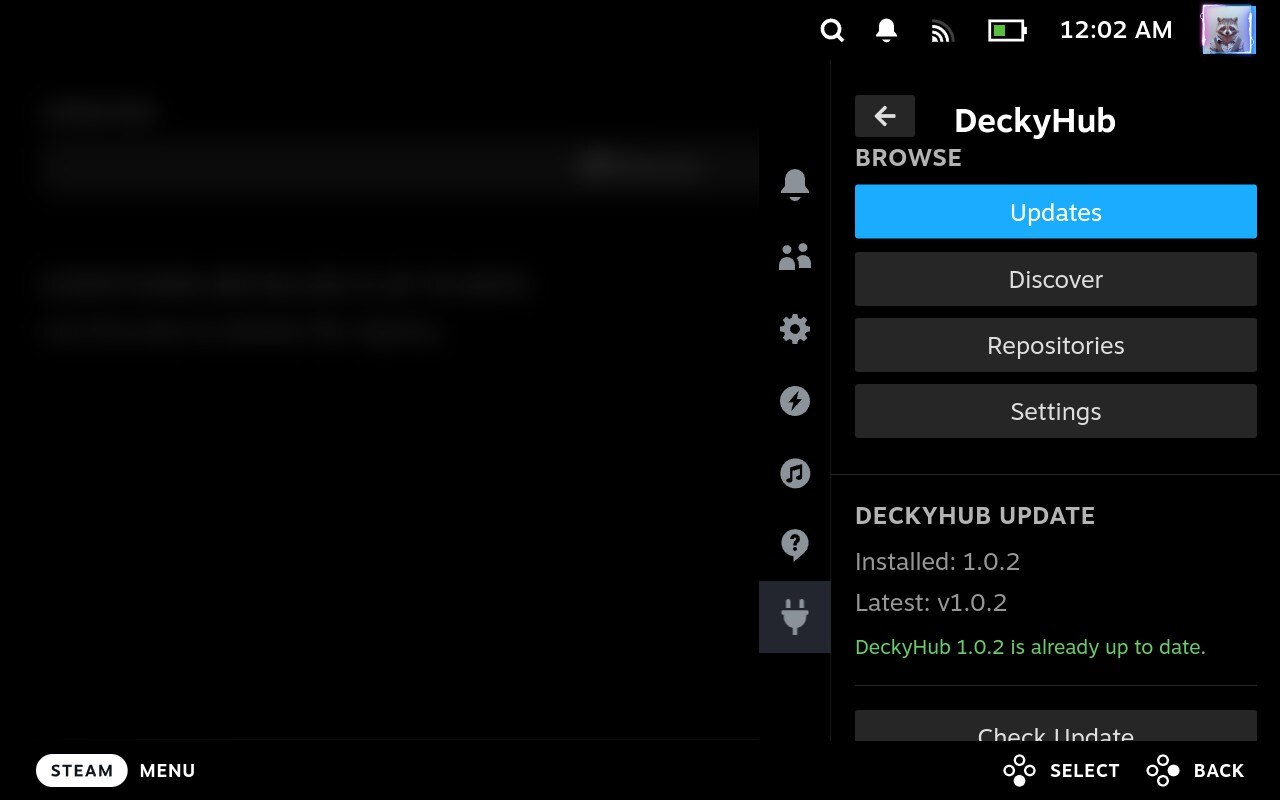
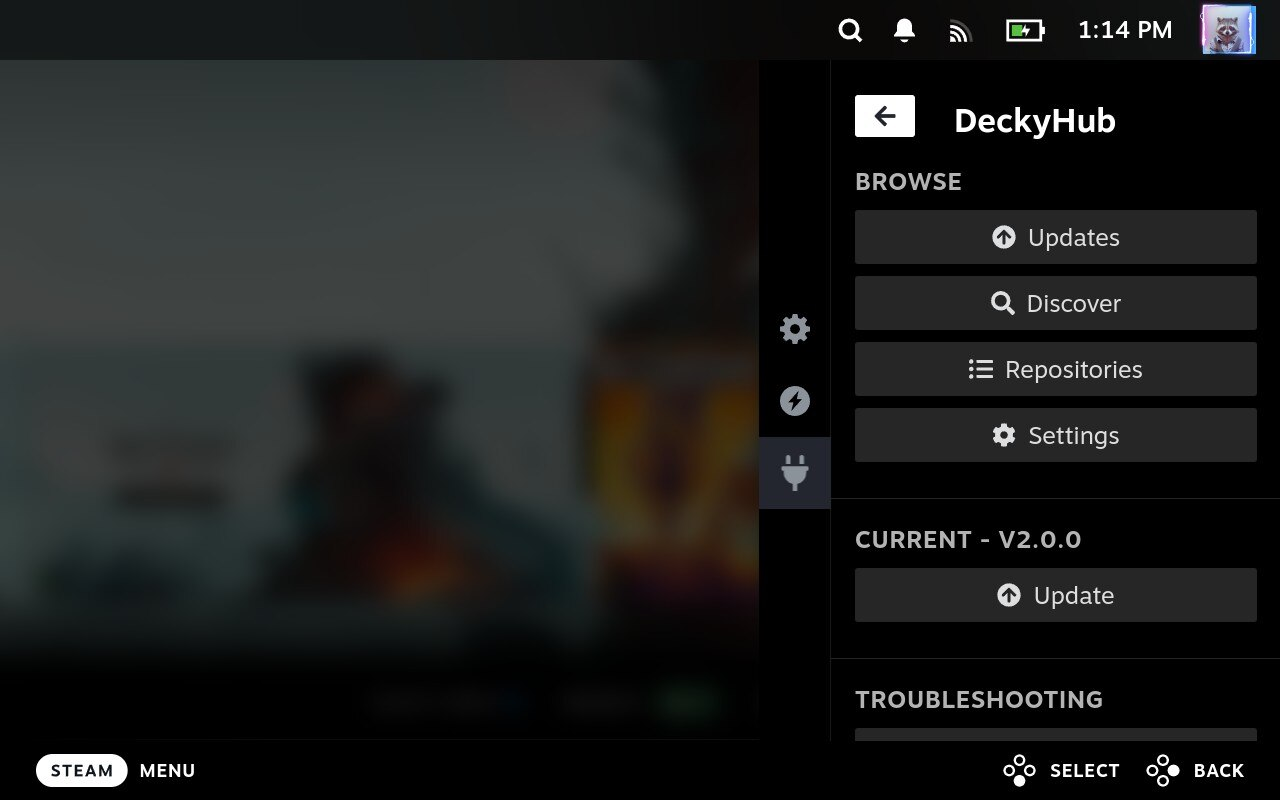
docs: update screenshots and add manage view

diff --git a/README.md b/README.md
@@ -11,6 +11,9 @@
 ### Updates
 <img src="screenshots/updates.jpg" width="600">
 
+### Manage
+<img src="screenshots/manage.jpg" width="600">
+
 </div>
 
 **Your Steam Deck's plugin store — right inside Gaming Mode.**
